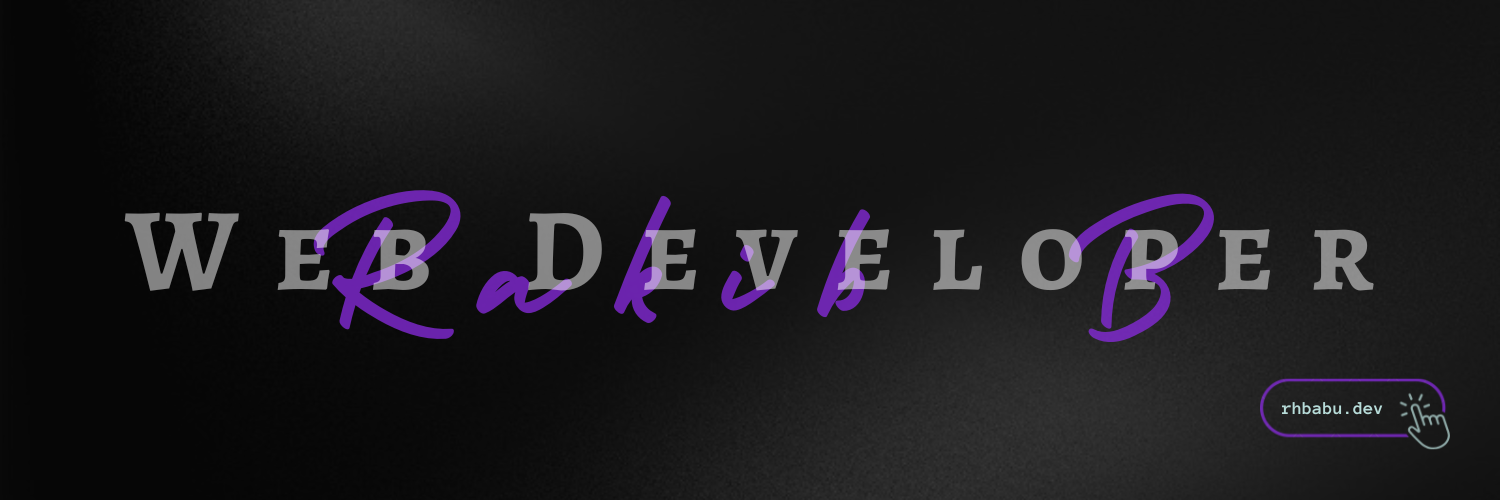
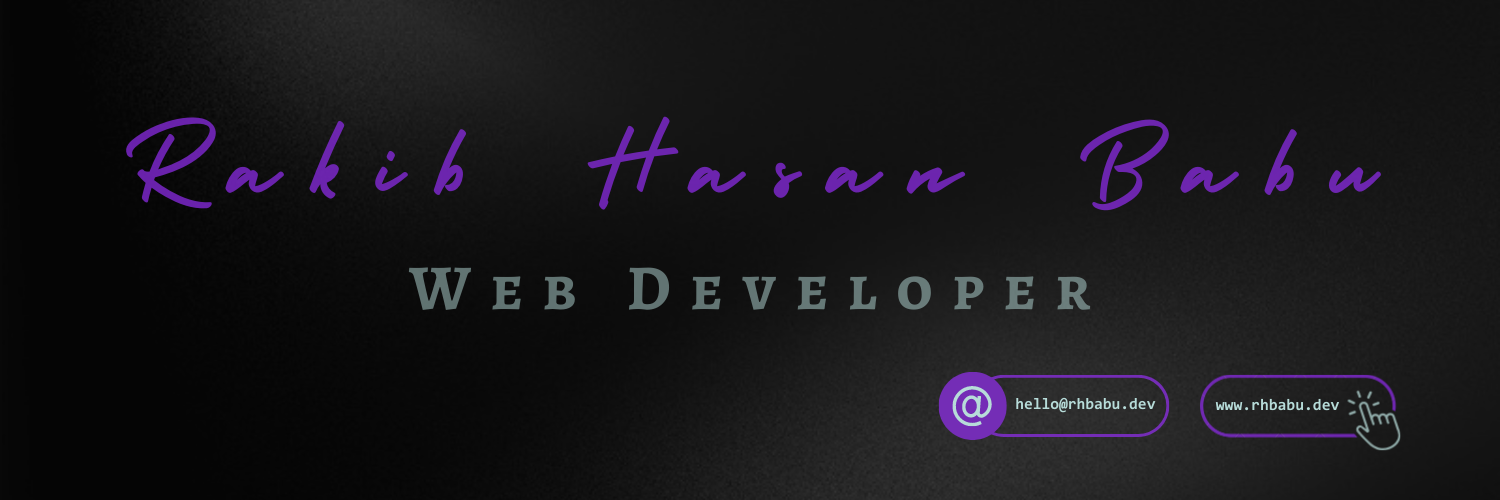
cover photo and contact info updated

diff --git a/README.md b/README.md
@@ -5,7 +5,7 @@
 📣 <b>[RAKIB](https://www.rhbabu.dev/)</b>!
 <br/>
 
-Self-driven, focused, and dedicated Web Developer with 2 years of experience, including 1+ years of industrial experience. I am passionate about programming, developing new products, and exploring new technologies. Well-versed in modern web technologies and version control systems. Slow-paced learner, a good team player, and committed to achieving the goal. Determined to deliver quality with an emphasis on excellence.
+Self-driven, focused, and dedicated Web Developer with 2+ years of experience, including 1+ years of industrial experience. I am passionate about programming, developing new products, and exploring new technologies. Well-versed in modern web technologies and version control systems. Slow-paced learner, a good team player, and committed to achieving the goal. Determined to deliver quality with an emphasis on excellence.
 
 <br />
 
@@ -103,7 +103,7 @@ Self-driven, focused, and dedicated Web Developer with 2 years of experience, in
 
 ## 💬 <b>CONTACT</b>
 
-[<b>LinkedIn</b>](https://www.linkedin.com/in/imRHB/) <b>|</b> [<b>Email</b>](mailto:rhbabu03@gmail.com) <b>|</b> [<b>Discord</b>](https://discord.com/users/543524582662078464)
+[<b>Email</b>](mailto:hello@rhbabu.dev) <b>|</b> [<b>LinkedIn</b>](https://www.linkedin.com/in/imRHB) <b>|</b> [<b>Discord</b>](https://discord.com/users/543524582662078464) <b>|</b> [<b>Instagram</b>](https://www.instagram.com/imprantu)
 
 <br/>
 
